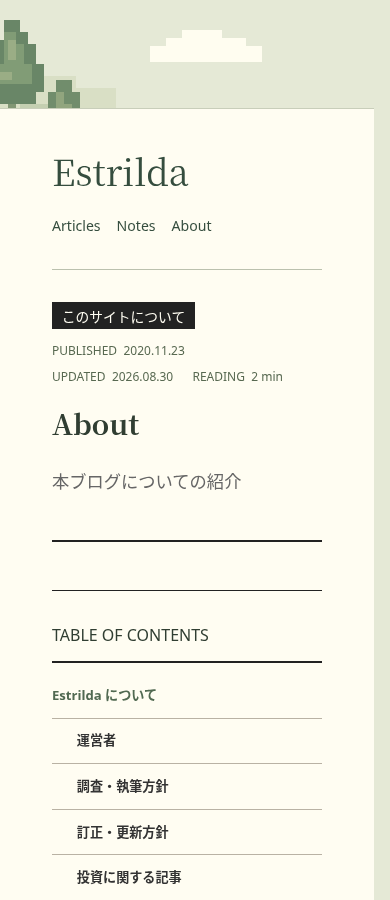
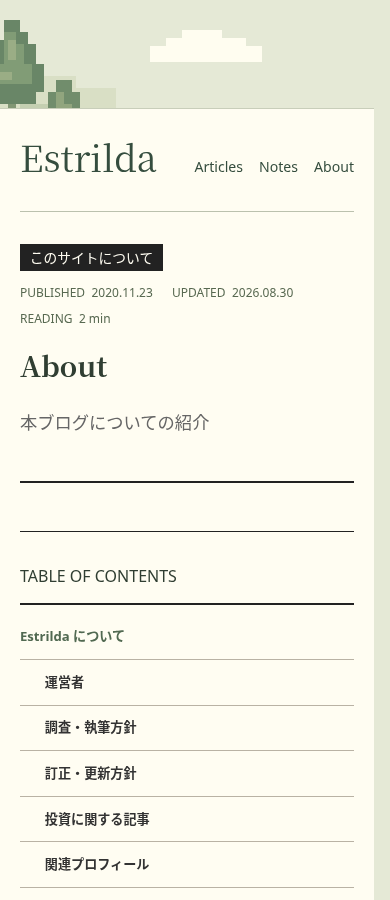
fix: preserve mobile reading width across page styles

diff --git a/apps/astro-blog/e2e/woodland.test.ts b/apps/astro-blog/e2e/woodland.test.ts
@@ -15,6 +15,7 @@ for (const width of [360, 390, 1366, 1920, 2560]) {
     }
     await page.goto('/');
     const first = page.locator('.post-row').first();
+    if (width < 700) expect((await first.boundingBox())!.width).toBeGreaterThan(width - 70);
     const metadata = await first.locator('.post-date').boundingBox();
     const title = await first.locator('.post-title').boundingBox();
     expect(metadata!.y + metadata!.height).toBeLessThanOrEqual(title!.y);

diff --git a/apps/astro-blog/src/woodland.css b/apps/astro-blog/src/woodland.css
@@ -100,7 +100,7 @@ body.woodland-blog .note-body {
     border-left: 0;
     border-right: 0;
   }
-  .woodland-blog
+  body.woodland-blog
     :is(.editorial-home, .archive-page, .article-page, .notes-shell, .note-page-shell) {
     padding: 28px 20px;
   }
